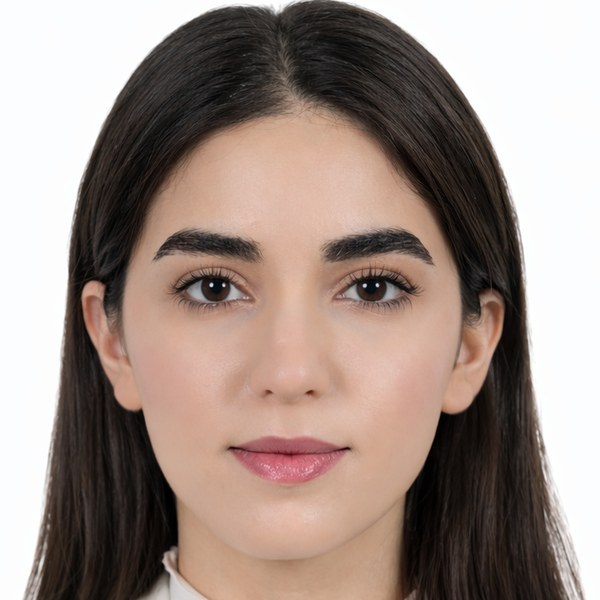
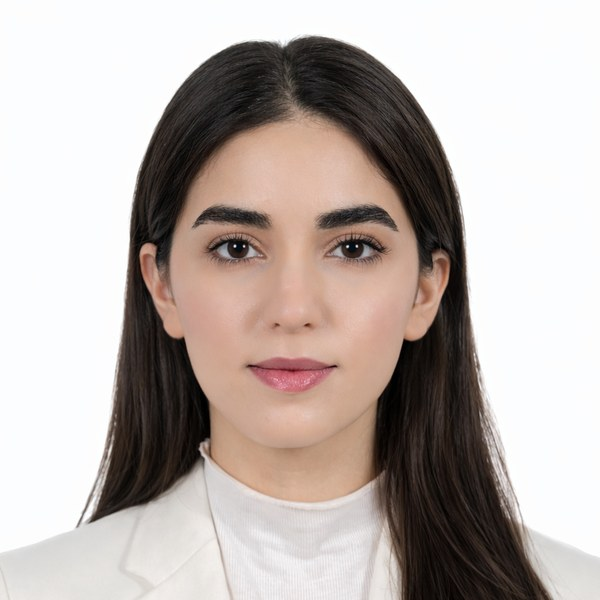
Add files via upload

diff --git a/index.html b/index.html
@@ -49,6 +49,8 @@ h1{font-family:var(--display);font-weight:700;font-size:2.4rem;line-height:1.05;
 .prof{display:grid;justify-items:center;gap:6px;text-decoration:none;color:var(--ink);background:var(--surface);border:1px solid var(--line);border-radius:14px;padding:14px 6px;font-size:.84rem;font-weight:500;text-align:center;min-width:0}
 .prof svg{width:24px;height:24px}
 .prof:focus-visible{outline:2px solid var(--accent);outline-offset:2px}
+.mail{display:flex;align-items:center;gap:12px;flex:1;min-width:0;color:inherit;text-decoration:none}
+.mail:focus-visible{outline:2px solid var(--accent);outline-offset:4px;border-radius:6px}
 .copy{font-family:var(--mono);font-size:.75rem;border:1px solid var(--line);border-radius:8px;padding:4px 8px;background:transparent;color:var(--accent);cursor:pointer}
 .poster{background:var(--surface);border:1px solid var(--line);border-radius:14px;padding:16px;display:grid;gap:6px}
 .eyebrow{font-family:var(--mono);font-size:.72rem;letter-spacing:.08em;text-transform:uppercase;color:var(--accent);margin:0}
@@ -66,7 +68,7 @@ footer{color:var(--muted);font-size:.82rem;text-align:center}
   <header>
     <img class="photo" src="photo.jpg" alt="Atena Yaramiree" width="104" height="104">
     <h1>Atena Yaramiree</h1>
-    <p class="role"><strong>MSc Biomedical Engineering</strong>, American University of Sharjah</p>
+    <p class="role"><strong>MSc Biomedical Engineering</strong><br>American University of Sharjah<br>Dubai, UAE</p>
     <p class="focus">Biomedical engineer interested in nanomedicine, microfluidics and targeted cancer therapy. I enjoy work that links hands-on lab research with data analysis, and I'm open to research collaborations and new opportunities.</p>
   </header>
 
@@ -90,8 +92,10 @@ footer{color:var(--muted);font-size:.82rem;text-align:center}
       </a>
     </div>
     <div class="btn" role="group" aria-label="Email">
-      <svg viewBox="0 0 24 24" fill="none" stroke="currentColor" stroke-width="1.8" aria-hidden="true"><rect x="3" y="5" width="18" height="14" rx="2"/><path d="m3.5 6 8.5 7 8.5-7"/></svg>
-      <span class="txt">Email<span class="sub" id="email">g00098847@alumni.aus.edu</span></span>
+      <a class="mail" href="mailto:g00098847@alumni.aus.edu">
+        <svg viewBox="0 0 24 24" fill="none" stroke="currentColor" stroke-width="1.8" aria-hidden="true"><rect x="3" y="5" width="18" height="14" rx="2"/><path d="m3.5 6 8.5 7 8.5-7"/></svg>
+        <span class="txt">Send me an email<span class="sub" id="email">g00098847@alumni.aus.edu</span></span>
+      </a>
       <button class="copy" id="copyEmail" type="button">Copy</button>
     </div>
     <a class="btn" href="#cv">
@@ -116,7 +120,7 @@ footer{color:var(--muted);font-size:.82rem;text-align:center}
     </a>
   </section>
 
-  <footer>Dubai, UAE · English · Arabic · Farsi</footer>
+  <footer>English · Arabic · Farsi</footer>
 </div>
 
 <script>
